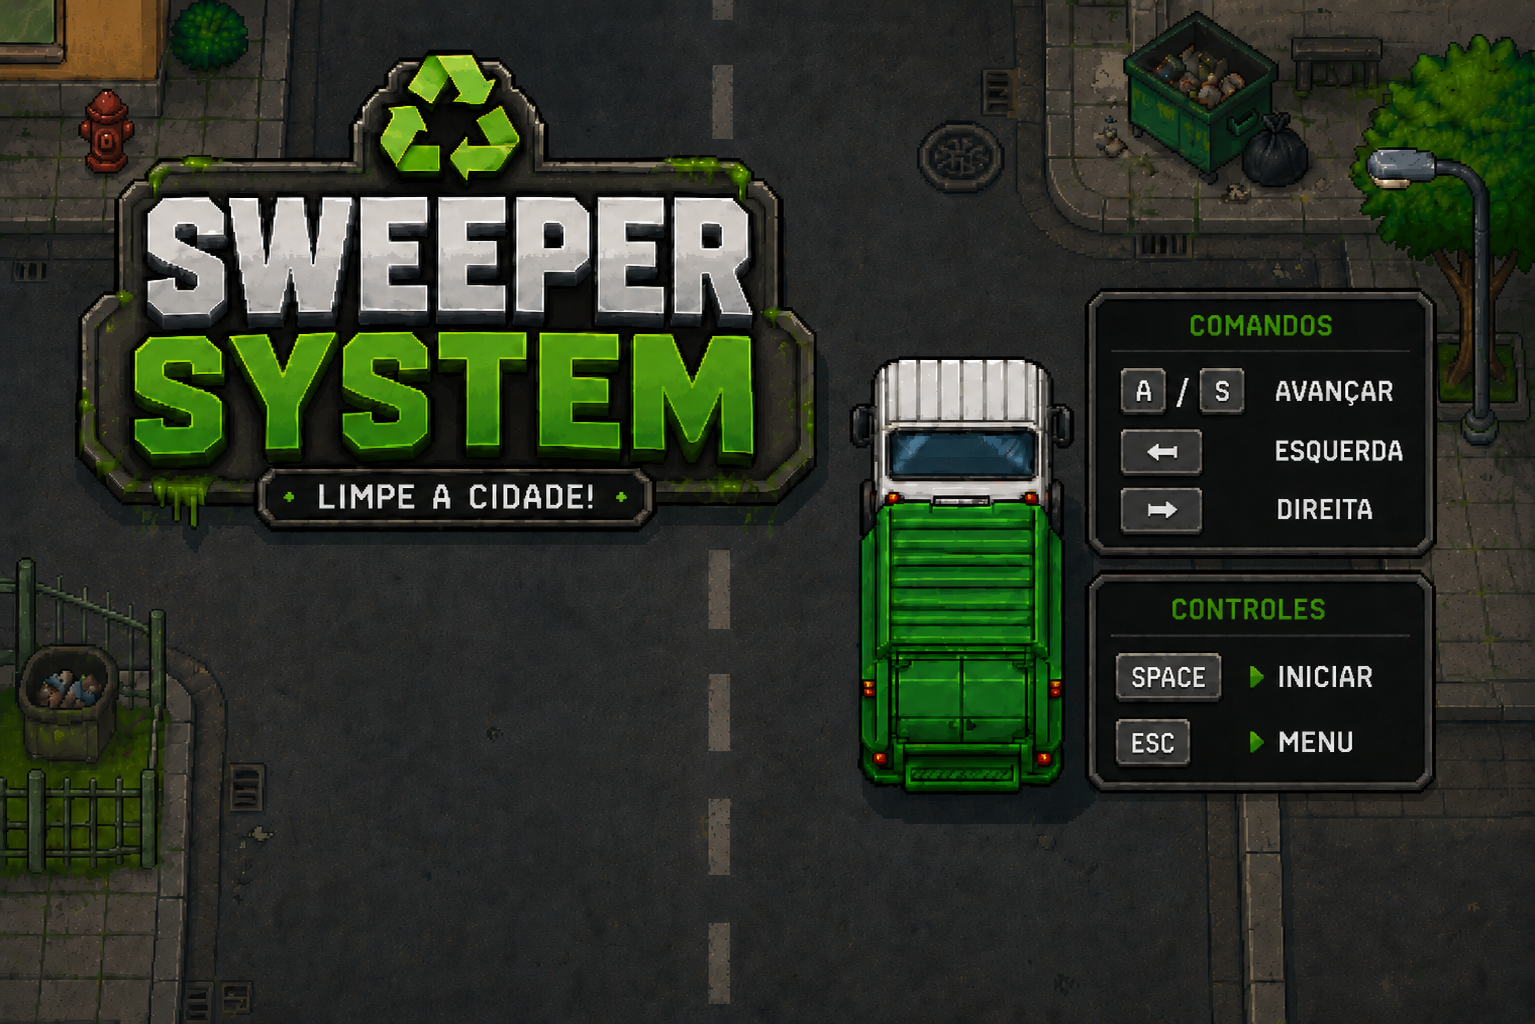
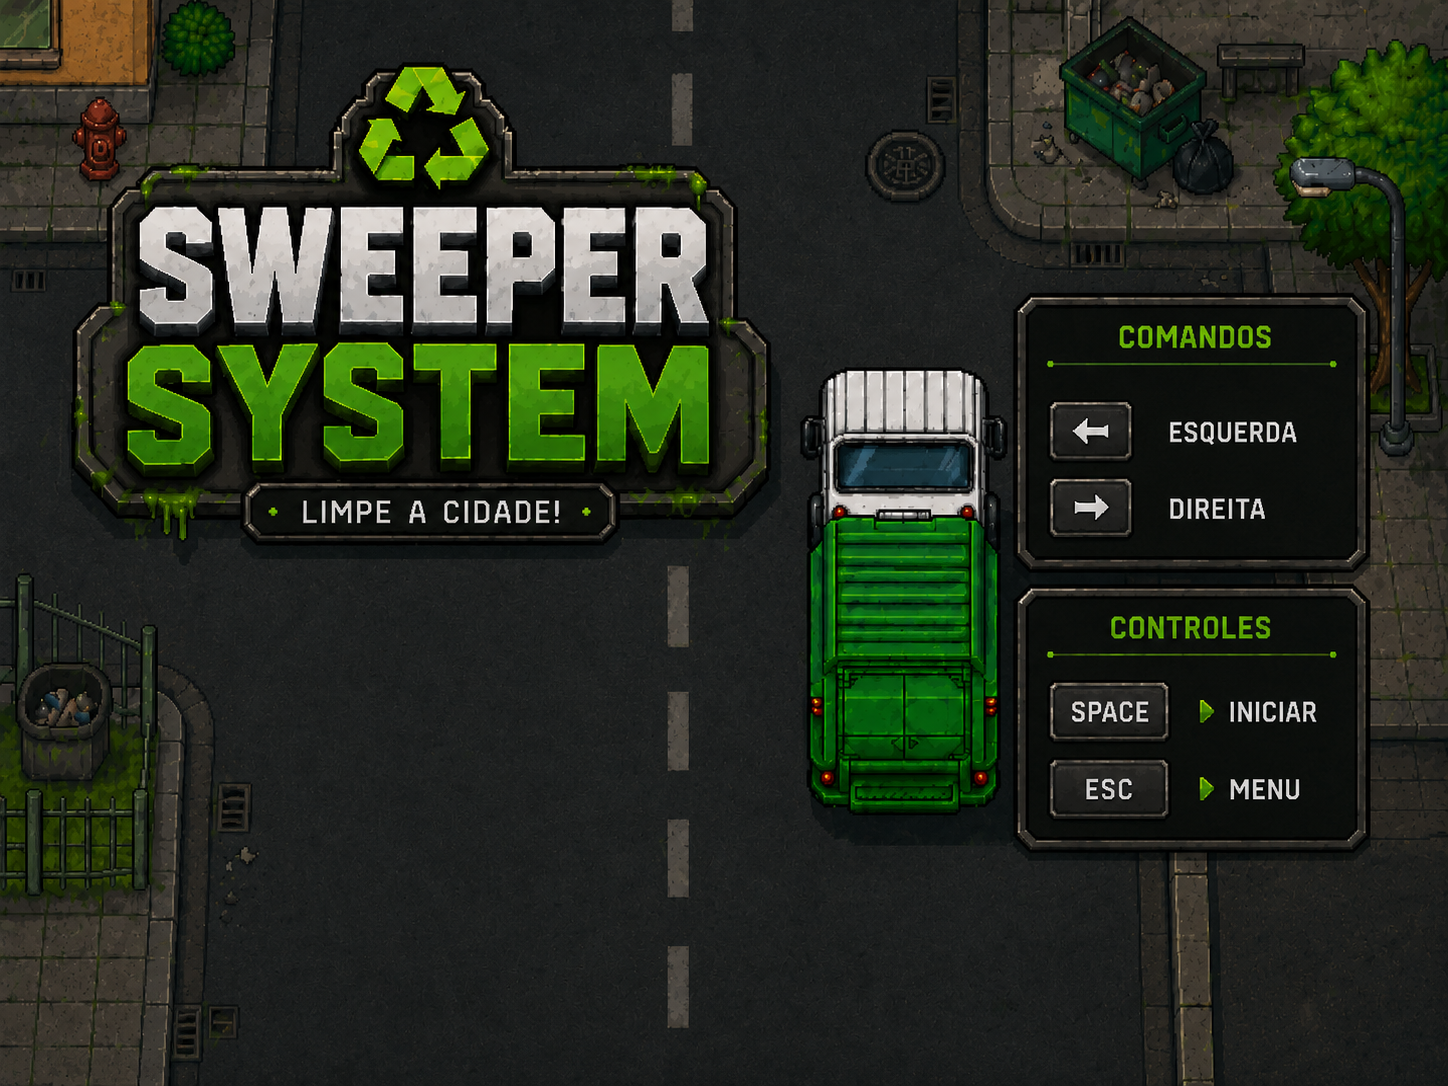
correção bugs

diff --git a/core/src/main/java/br/mackenzie/TelaFinal.java b/core/src/main/java/br/mackenzie/TelaFinal.java
@@ -54,7 +54,7 @@ public class TelaFinal implements Screen {
 
         this.jogo = jogo;
 
-        // ✅ usa batch do Main (correto LibGDX)
+        // usa batch do Main (correto LibGDX)
         this.batch = jogo.batch;
 
         this.totalPedaladas = totalPedaladas;
@@ -63,7 +63,7 @@ public class TelaFinal implements Screen {
         this.consistencia = consistencia;
         this.tempoTotal = tempoTotal;
 
-        // 🌱 cálculos do jogo
+        // cálculos do jogo
         this.arvores = Math.max(1, (int)(totalPedaladas * 0.5f));
         this.energia = totalPedaladas * 12f;
         this.co2 = totalPedaladas * 1.2f;
@@ -135,15 +135,15 @@ public class TelaFinal implements Screen {
         font.draw(batch, "RPM Máximo: " + rpmMaximo, 200, 400);
         font.draw(batch, "Consistência: " + (consistencia * 100) + "%", 200, 370);
 
-        // 🌱 impacto ambiental
+        // impacto ambiental
         font.draw(batch, "Árvores: " + arvores, 650, 460);
         font.draw(batch, "Energia: " + energia + " Wh", 650, 430);
         font.draw(batch, "CO2 evitado: " + co2, 650, 400);
 
-        // ⏱ tempo
+        // tempo
         font.draw(batch, "Tempo: " + tempoTotal + "s", 650, 370);
 
-        // 🔙 instrução
+        // instrução
         font.draw(batch, "ENTER ou ESC para voltar", 420, 200);
 
         batch.end();

diff --git a/core/src/main/java/br/mackenzie/Fase3.java b/core/src/main/java/br/mackenzie/Fase3.java
@@ -29,9 +29,9 @@ public class Fase3 extends ScreenAdapter {
         WIN
     }
 
-    private static final int MAX_LIVES = 6;
-    private static final int SCORE_VITORIA = 50;
-    private static final float VELOCIDADE_FASE3 = 4.0f;
+    private static final int MAX_LIVES = 2;
+    private static final int SCORE_VITORIA = 30;
+    private static final float VELOCIDADE_FASE3 = 4.5f;
 
     public static final float LEFT_WALL = 1.5f;
     public static final float RIGHT_WALL = 6.5f;
@@ -62,7 +62,7 @@ public class Fase3 extends ScreenAdapter {
 
     private float spawnTimer;
     private int score = 0;
-    private int lives = 3;
+    private int lives = 1;
     private float bgNearY = 0f;
 
     private Sound dropSound;

diff --git a/core/src/main/java/br/mackenzie/Fase1.java b/core/src/main/java/br/mackenzie/Fase1.java
@@ -31,7 +31,7 @@ public class Fase1 extends ScreenAdapter {
     }
 
     private static final int MAX_LIVES = 3;
-    private static final int SCORE_VITORIA = 40;
+    private static final int SCORE_VITORIA = 20;
 
     public static final float LEFT_WALL  = 1.5f;
     public static final float RIGHT_WALL = 6.5f;
@@ -461,12 +461,12 @@ public class Fase1 extends ScreenAdapter {
             spawnObstaculo(x);
         }
 
-        if (MathUtils.randomBoolean(0.1f)) {
+        if (MathUtils.randomBoolean(0.08f)) {
             float px = MathUtils.random(LEFT_WALL, RIGHT_WALL - 0.8f);
             activePowerUps.add(new PowerUp(powerTex, px, 5f));
         }
 
-        if (MathUtils.randomBoolean(0.01f)) {
+        if (MathUtils.randomBoolean(0.07f)) {
             float sx = MathUtils.random(LEFT_WALL, RIGHT_WALL - 0.8f);
             activeShields.add(new Shield(shieldTex, sx, 5f));
         }

diff --git a/core/src/main/java/br/mackenzie/Fase2.java b/core/src/main/java/br/mackenzie/Fase2.java
@@ -29,8 +29,8 @@ public class Fase2 extends ScreenAdapter {
         WIN
     }
 
-    private static final int MAX_LIVES = 5;
-    private static final int SCORE_VITORIA = 30;
+    private static final int MAX_LIVES = 2;
+    private static final int SCORE_VITORIA = 25;
     private static final float VELOCIDADE_FASE2 = 3.0f;
 
     public static final float LEFT_WALL = 1.5f;

diff --git a/core/src/main/java/br/mackenzie/MenuPrincipal.java b/core/src/main/java/br/mackenzie/MenuPrincipal.java
@@ -157,7 +157,7 @@ public class MenuPrincipal implements Screen {
                 if (jogo != null) {
                     trocandoTela = true;
                     Gdx.input.setInputProcessor(null);
-                    jogo.setScreen(new Levels(jogo)); // <--- AQUI ESTÁ A CORREÇÃO
+                    jogo.setScreen(new Levels(jogo));
                 }
                 break;
 